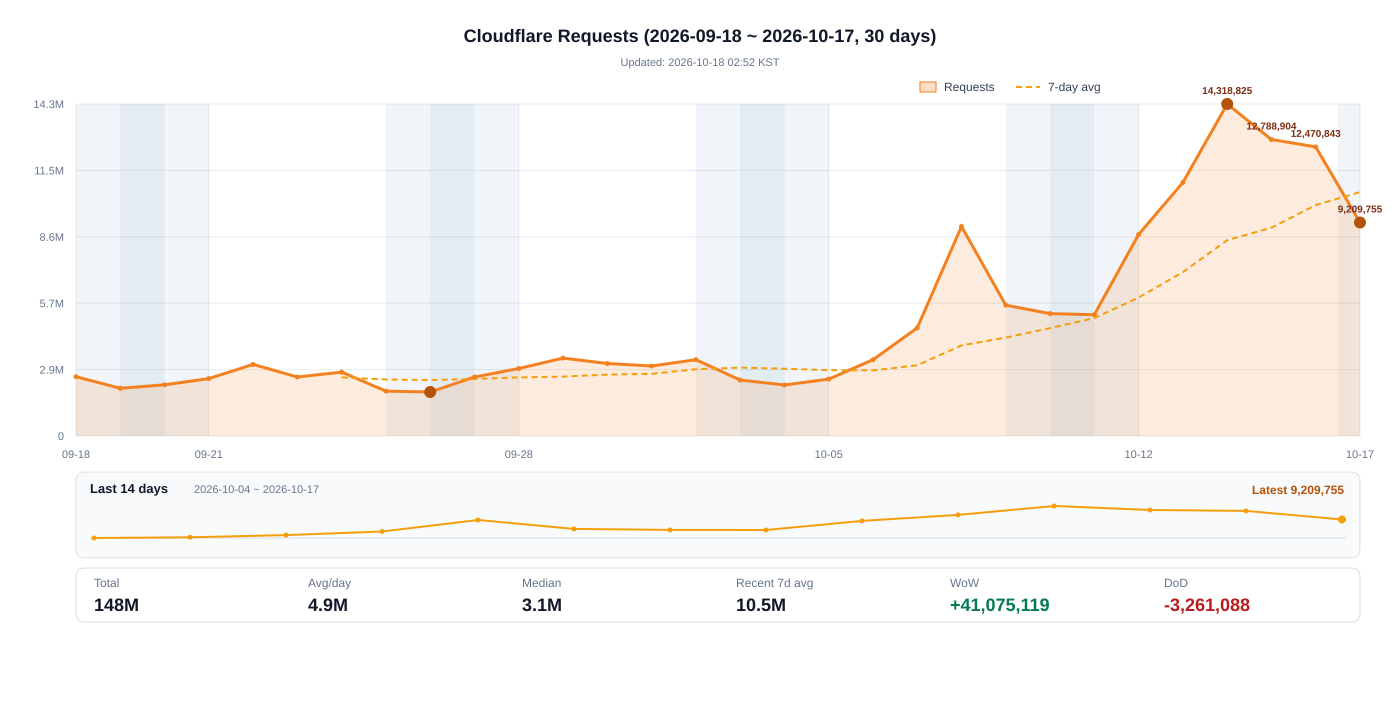
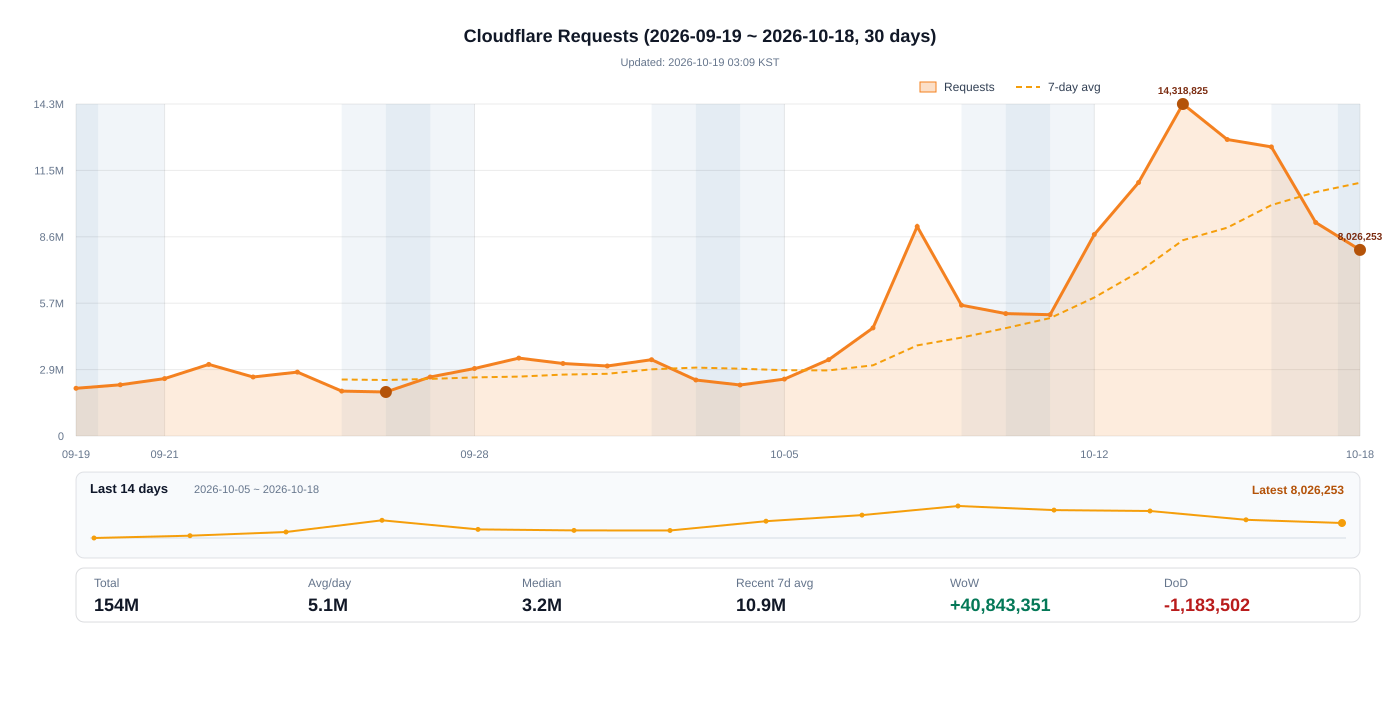
chore: 워커 호출량 그래프 자동 갱신

diff --git a/README.md b/README.md
@@ -93,11 +93,11 @@
 **[실시간 서비스 상태 보기](https://aka-page.betteruptime.com/)**
 
 <!-- WORKERS_INVOCATIONS_CHART:START -->
-<h3>Cloudflare 요청 수 (2026-09-18 ~ 2026-10-17, 30일)</h3>
+<h3>Cloudflare 요청 수 (2026-09-19 ~ 2026-10-18, 30일)</h3>
 
-<img src="./assets/analytics/workers-invocations.png?v=2026-10-17T17:52:24.286Z" alt="Cloudflare 요청 수 그래프 (2026-09-18 ~ 2026-10-17)" width="100%">
+<img src="./assets/analytics/workers-invocations.png?v=2026-10-18T18:09:39.106Z" alt="Cloudflare 요청 수 그래프 (2026-09-19 ~ 2026-10-18)" width="100%">
 
-<sub>기준 워커: <code>daiso-mcp</code> · 마지막 갱신: 2026-10-18 02:52 KST</sub>
+<sub>기준 워커: <code>daiso-mcp</code> · 마지막 갱신: 2026-10-19 03:09 KST</sub>
 <br><sub>집계: Worker 실행 + 루트 GET 리디렉션 요청 · 사용자 수와 다릅니다.</sub>
 
 </div>

diff --git a/scripts/ops/README.md b/scripts/ops/README.md
@@ -25,11 +25,11 @@
 <!-- WORKERS_INVOCATIONS_CHART:START -->
 <div align="center">
 
-<h3>Cloudflare 요청 수 (2026-09-18 ~ 2026-10-17, 30일)</h3>
+<h3>Cloudflare 요청 수 (2026-09-19 ~ 2026-10-18, 30일)</h3>
 
-<img src="../../assets/analytics/workers-invocations.png?v=2026-10-17T17:52:24.286Z" alt="Cloudflare 요청 수 그래프 (2026-09-18 ~ 2026-10-17)" width="100%">
+<img src="../../assets/analytics/workers-invocations.png?v=2026-10-18T18:09:39.106Z" alt="Cloudflare 요청 수 그래프 (2026-09-19 ~ 2026-10-18)" width="100%">
 
-<sub>기준 워커: <code>daiso-mcp</code> · 마지막 갱신: 2026-10-18 02:52 KST</sub>
+<sub>기준 워커: <code>daiso-mcp</code> · 마지막 갱신: 2026-10-19 03:09 KST</sub>
 <br><sub>집계: Worker 실행 + 루트 GET 리디렉션 요청 · 사용자 수와 다릅니다.</sub>
 
 </div>
